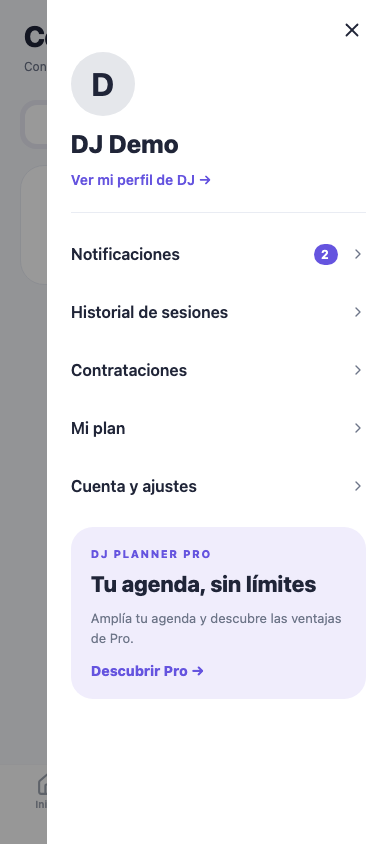
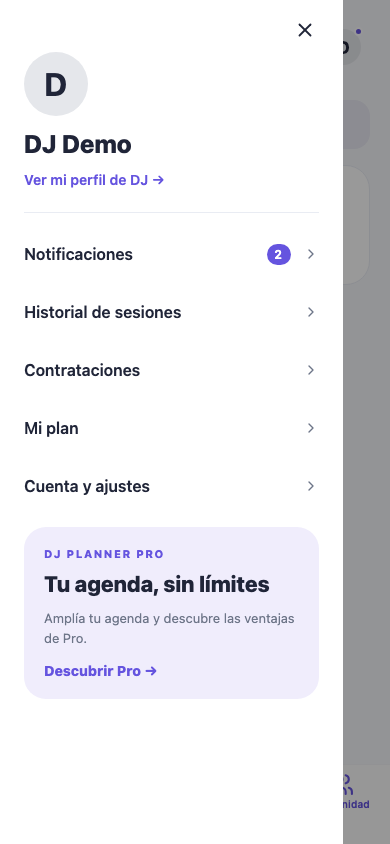
Open account drawer from left and display verified Pro badges

Changed region(s): [[0.0, 0.0, 1.0, 1.0], [0.6769, 0.2773, 0.7692, 0.3389], [0.7692, 0.0308, 0.8, 0.0616]]

diff --git a/src/components/navigation/AccountDrawer.tsx b/src/components/navigation/AccountDrawer.tsx
@@ -26,24 +26,28 @@ import { useSessionUsage } from '../../hooks/useSessionUsage';
 import { useCommunityColors } from '../community/CommunityUI';
 import { TabProfileIcon } from '../ui/TabProfileIcon';
 
-const DrawerContext = createContext<(() => void) | null>(null);
+const DrawerContext = createContext<{
+    open: () => void;
+    isPro: boolean;
+} | null>(null);
 export function AccountAvatarButton() {
-    const open = useContext(DrawerContext);
+    const menu = useContext(DrawerContext);
     const { profile, session } = useAuthStore();
     const { t } = useTranslation();
     const c = useCommunityColors();
     const unread = useUnreadNotifications();
-    if (!open || !session) return null;
+    if (!menu || !session) return null;
     return (
         <Pressable
             accessibilityRole="button"
             accessibilityLabel={
                 t('accountMenu.open') +
+                (menu.isPro ? `, ${t('billing.proPlan')}` : '') +
                 (unread.data
                     ? `, ${t('notifications.openUnread', { count: unread.data })}`
                     : '')
             }
-            onPress={open}
+            onPress={menu.open}
             style={{
                 width: 46,
                 height: 46,
@@ -59,6 +63,33 @@ export function AccountAvatarButton() {
                 focused={false}
                 hasUnread={!!unread.data}
             />
+            {menu.isPro && (
+                <View
+                    pointerEvents="none"
+                    style={{
+                        position: 'absolute',
+                        bottom: 0,
+                        paddingHorizontal: 5,
+                        paddingVertical: 1,
+                        borderRadius: 5,
+                        backgroundColor: '#6554df',
+                        borderWidth: 1.5,
+                        borderColor: c.bg,
+                    }}
+                >
+                    <Text
+                        style={{
+                            color: '#fff',
+                            fontSize: 7,
+                            lineHeight: 9,
+                            fontWeight: '900',
+                            letterSpacing: 0.4,
+                        }}
+                    >
+                        PRO
+                    </Text>
+                </View>
+            )}
         </Pressable>
     );
 }
@@ -66,7 +97,7 @@ export function AccountDrawerProvider({ children }: { children: ReactNode }) {
     const [open, setOpen] = useState(false);
     const { width } = useWindowDimensions();
     const drawerWidth = Math.min(360, width * 0.88);
-    const translate = useRef(new Animated.Value(drawerWidth)).current;
+    const translate = useRef(new Animated.Value(-drawerWidth)).current;
     const { profile, session } = useAuthStore();
     const c = useCommunityColors();
     const { t } = useTranslation();
@@ -86,7 +117,7 @@ export function AccountDrawerProvider({ children }: { children: ReactNode }) {
         return () => document.removeEventListener('keydown', handleKey);
     }, [open]);
     const show = () => {
-        translate.setValue(drawerWidth);
+        translate.setValue(-drawerWidth);
         setOpen(true);
         void unread.refetch();
         void usage.refetch();
@@ -107,7 +138,9 @@ export function AccountDrawerProvider({ children }: { children: ReactNode }) {
         { key: 'settings', href: '/profile?section=settings' },
     ];
     return (
-        <DrawerContext.Provider value={show}>
+        <DrawerContext.Provider
+            value={{ open: show, isPro: usage.data?.isPro === true }}
+        >
             {children}
             <Modal
                 visible={open}
@@ -129,12 +162,6 @@ export function AccountDrawerProvider({ children }: { children: ReactNode }) {
                         backgroundColor: '#00000066',
                     }}
                 >
-                    <Pressable
-                        accessibilityRole="button"
-                        accessibilityLabel={t('accountMenu.close')}
-                        onPress={close}
-                        style={{ flex: 1 }}
-                    />
                     <Animated.View
                         accessibilityViewIsModal
                         style={{
@@ -195,18 +222,53 @@ export function AccountDrawerProvider({ children }: { children: ReactNode }) {
                                         color={c.fg}
                                         focused={false}
                                     />
-                                    <Text
-                                        numberOfLines={2}
+
+                                    <View
                                         style={{
-                                            fontSize: 25,
-                                            lineHeight: 31,
-                                            fontWeight: '800',
-                                            color: c.fg,
+                                            flexDirection: 'row',
+                                            flexWrap: 'wrap',
+                                            alignItems: 'center',
+                                            gap: 8,
                                         }}
                                     >
-                                        {profile?.artist_name ||
-                                            t('unifiedProfile.title')}
-                                    </Text>
+                                        <Text
+                                            numberOfLines={2}
+                                            style={{
+                                                flexShrink: 1,
+                                                fontSize: 25,
+                                                lineHeight: 31,
+                                                fontWeight: '800',
+                                                color: c.fg,
+                                            }}
+                                        >
+                                            {profile?.artist_name ||
+                                                t('unifiedProfile.title')}
+                                        </Text>
+                                        {usage.data?.isPro && (
+                                            <View
+                                                accessibilityLabel={t(
+                                                    'billing.proPlan',
+                                                )}
+                                                style={{
+                                                    backgroundColor: '#6554df',
+                                                    borderRadius: 7,
+                                                    paddingHorizontal: 8,
+                                                    paddingVertical: 4,
+                                                }}
+                                            >
+                                                <Text
+                                                    style={{
+                                                        color: '#fff',
+                                                        fontSize: 10,
+                                                        fontWeight: '900',
+                                                        letterSpacing: 0.7,
+                                                    }}
+                                                >
+                                                    PRO
+                                                </Text>
+                                            </View>
+                                        )}
+                                    </View>
                                     <Text
                                         style={{
                                             color: c.accent,
@@ -338,6 +400,12 @@ export function AccountDrawerProvider({ children }: { children: ReactNode }) {
                             </ScrollView>
                         </SafeAreaView>
                     </Animated.View>
+                    <Pressable
+                        accessibilityRole="button"
+                        accessibilityLabel={t('accountMenu.close')}
+                        onPress={close}
+                        style={{ flex: 1 }}
+                    />
                 </View>
             </Modal>
         </DrawerContext.Provider>

diff --git a/docs/menu-cuenta.md b/docs/menu-cuenta.md
@@ -1,6 +1,6 @@
 # Menú de cuenta y presentación de Pro
 
-El avatar de la cabecera abre un panel lateral desde la derecha en Inicio, Dashboard, Lugares, Comunidad e Historial. Conserva la foto o la inicial y el indicativo de notificaciones sin leer. El panel se puede cerrar con el botón, tocando el fondo, con Atrás en Android o Escape en web.
+El avatar de la cabecera abre un panel lateral desde la izquierda hacia la derecha en Inicio, Dashboard, Lugares, Comunidad e Historial. Conserva la foto o la inicial y el indicativo de notificaciones sin leer. El panel se puede cerrar con el botón, tocando el fondo, con Atrás en Android o Escape en web.
 
 La navegación inferior contiene las cuatro áreas principales. El perfil deja de ser una pestaña: desde el menú se abre como una pantalla independiente con regreso a la pantalla anterior.
 
@@ -28,3 +28,5 @@ No cambia el nombre de la app, las compras, los identificadores de RevenueCat, l
 - Capturas en `docs/previews/account-menu.png`, `account-settings.png` y `pro-overview.png`. Datos ficticios.
 
 La comprobación en navegador y la compilación no sustituyen la prueba del panel en un dispositivo físico con Expo Go.
+
+Las cuentas Pro muestran un distintivo morado junto al nombre en el panel y una etiqueta pequeña en el avatar de la cabecera. Se basa en el acceso vigente verificado por el servidor; no sustituye ni tapa el punto de notificaciones.
